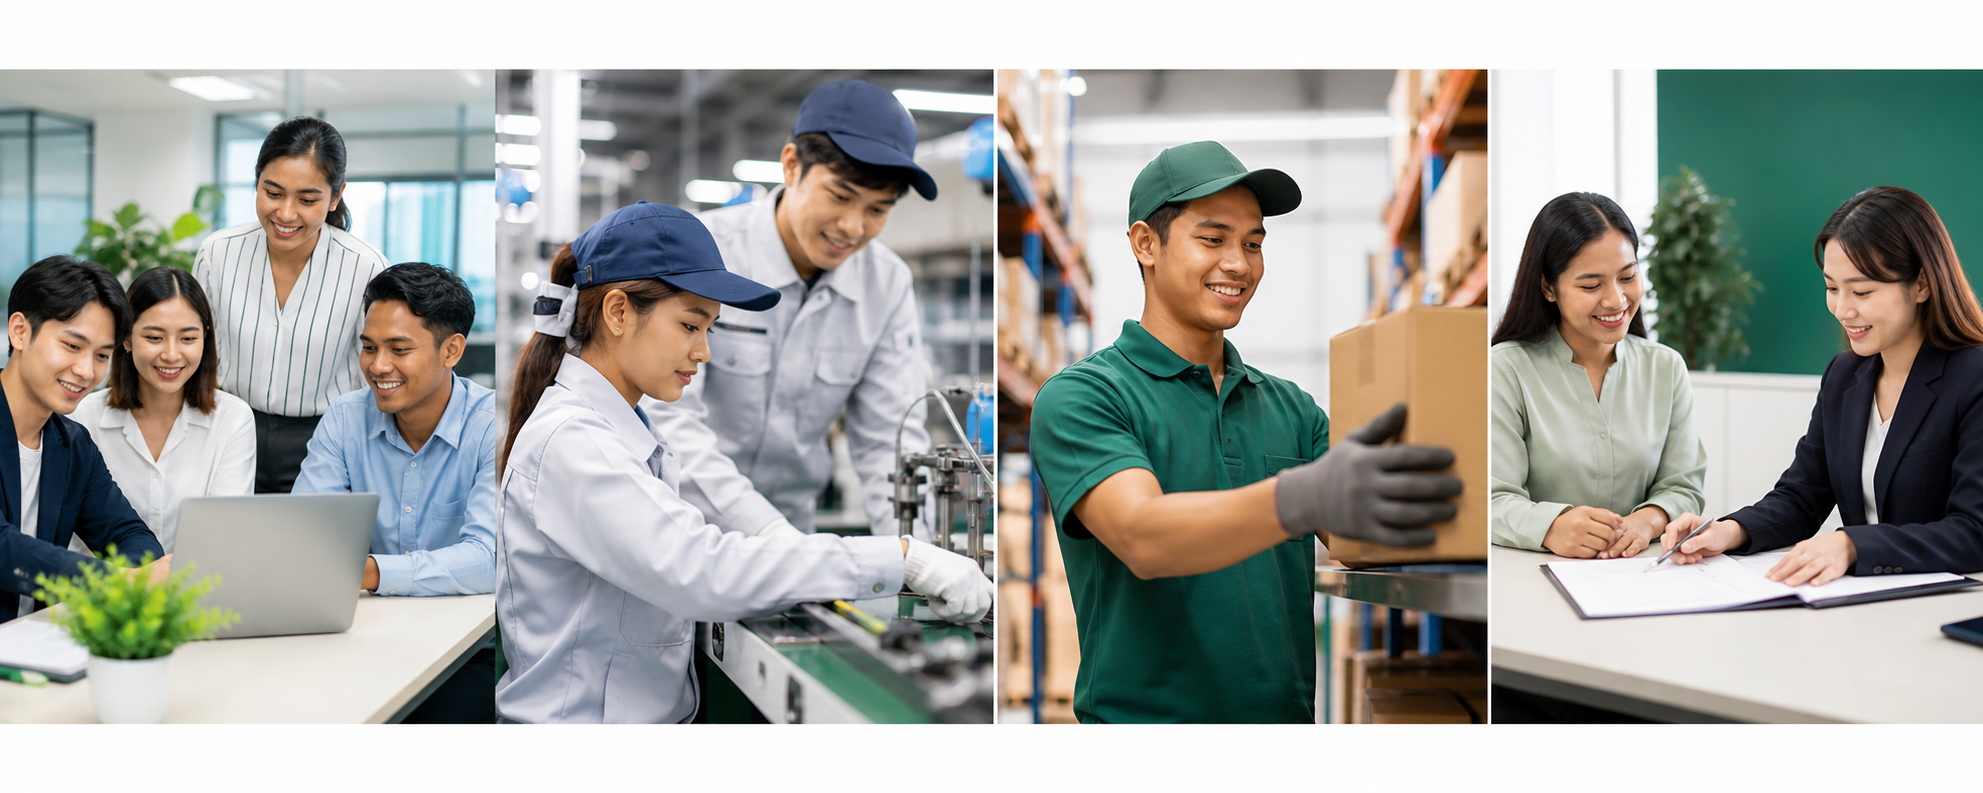
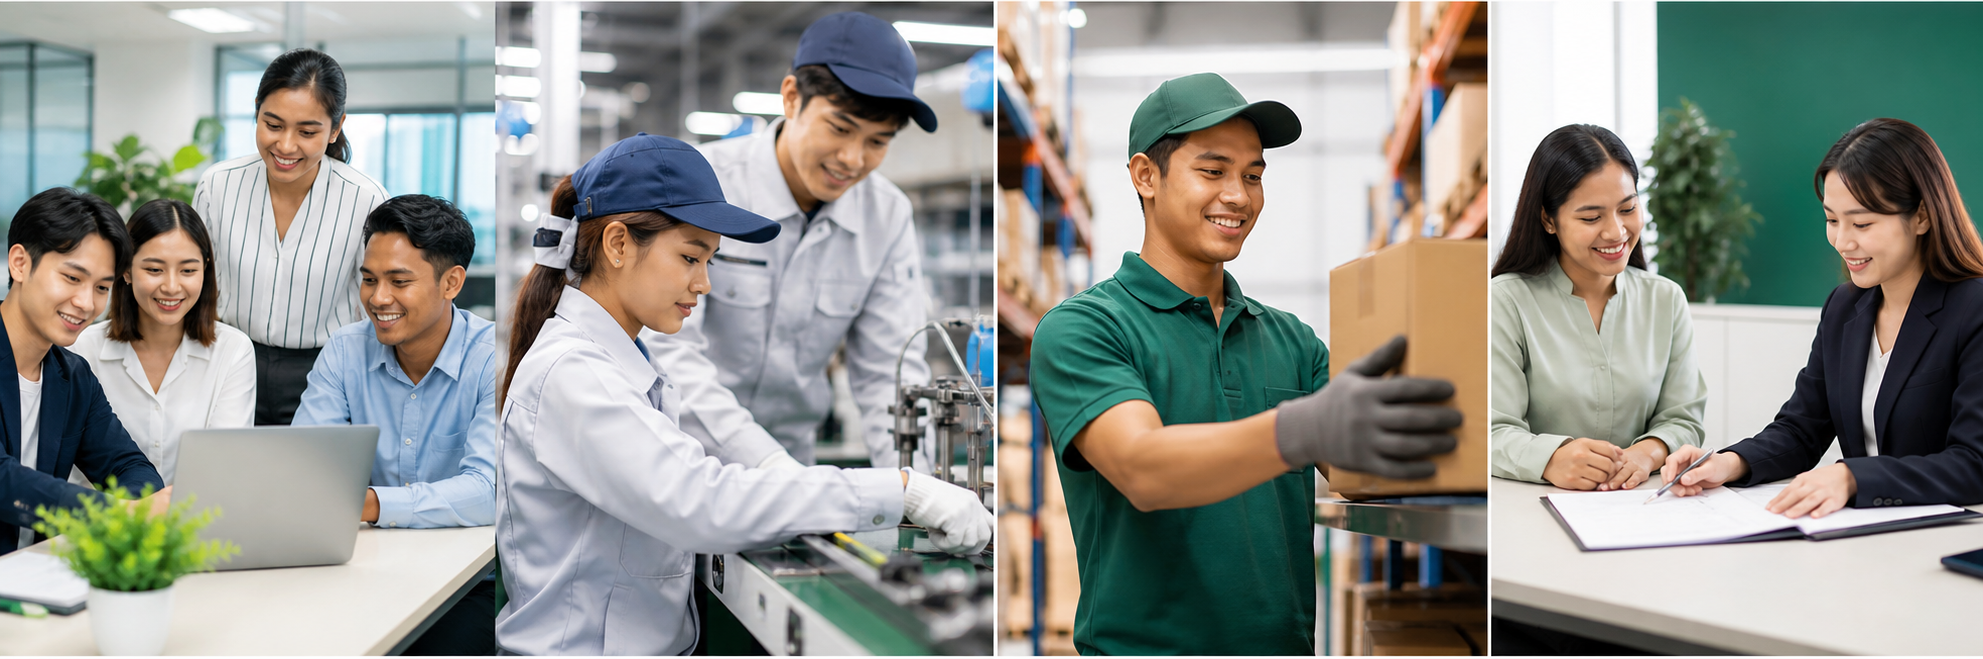
fix: crop baked-in white margins from service-collage.png (v1.0.22)

diff --git a/services.html b/services.html
@@ -1,5 +1,5 @@
 <!doctype html>
-<!-- Version: v1.0.21 -->
+<!-- Version: v1.0.22 -->
 <html lang="ja">
   <head>
     <meta charset="utf-8">